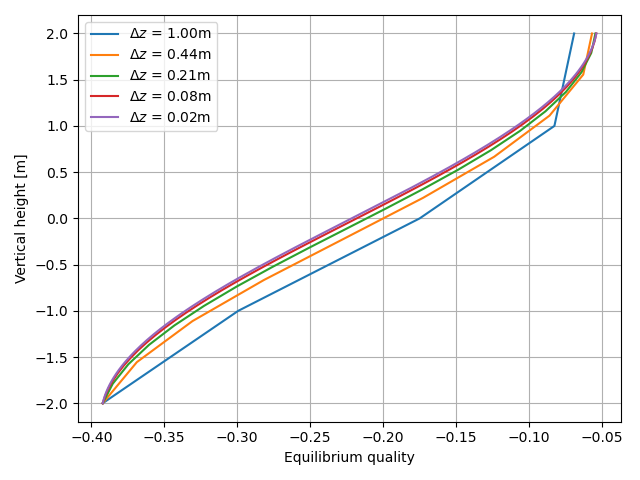
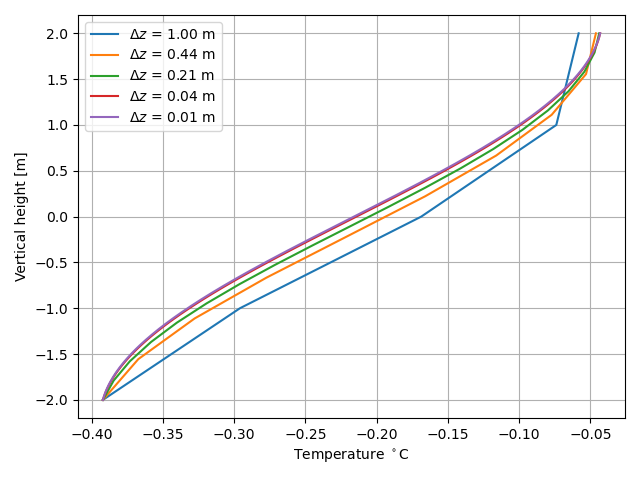
more new graphs

Changed region(s): [[0.0, 0.0312, 1.0, 0.9688], [0.9688, 0.0312, 1.0, 0.0938], [0.0625, 0.25, 0.125, 0.2812]]

diff --git a/hw8 PWR.py b/hw8 PWR.py
@@ -172,7 +172,7 @@ fig,ax = plt.subplots()
 
 if option == 1 :
 
-    for numOfPoints in [400]:#[5, 10, 20, 50,200]:
+    for numOfPoints in [5, 10, 20, 100, 400]:
         
         ###########################################################
 
@@ -302,7 +302,7 @@ if option == 1 :
                 L2 = -2*(A1*T_f_s[i] + A2*Tsats[i])
                 L3 = A1*(T_f_s[i]**2) + A2*(Tsats[i]**2) - ((k_clad*c_5/r_clad_o)**2)
                 #print(f"F = {F}, S = {S:0.2f}, hnb={hnb:0.2f}, A1 = {A1:0.2f}, A2 = {A2:0.2f}, L1 = {L1:0.2f}, L2 = {L2:0.2f}, L3 = {L3:0.2f}")
-                T_w_min = ((-L2-((L2**2 - (4*L1*L3))**0.5))/(2*L1))
+                #T_w_min = ((-L2-((L2**2 - (4*L1*L3))**0.5))/(2*L1))
                 T_w_plus = ((-L2 +((L2**2 - (4*L1*L3))**0.5))/(2*L1))
                 #print("Wall temp", T_w_plus)
                 c_6 = T_w_plus - (c_5*np.log(r_clad_o))
@@ -325,11 +325,11 @@ if option == 1 :
 
         #ax.plot(T_c_out, zs, label="Outer Clad Surface Temperature")
         #ax.plot(T_f_s, zs, label="Fluid Temperature")
-        ax.plot(T_f_c, zs, label="Centerline Temperature")        
+        #ax.plot(T_f_c, zs, label="Centerline Temperature")        
         #ax.plot(Tsats, zs, label="Saturation Temperature")
         # ax.plot(T_c_in, zs, label="Inner Clad Surface Temperature")
 
-        # ax.plot(Xes, zs, label=f"Equilibrium Quality")
+        ax.plot(Xes, zs, label=f"$\Delta z$ = {deltaz:0.2f} m")
 
         #ax.plot(rhos, zs, label="Densities")
         #ax.plot(mus, zs, label="Dynamic Viscosities")
